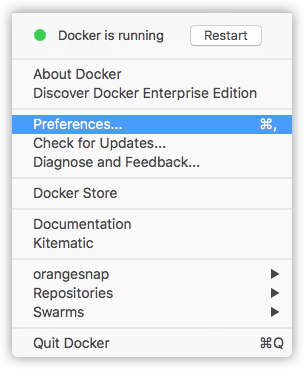
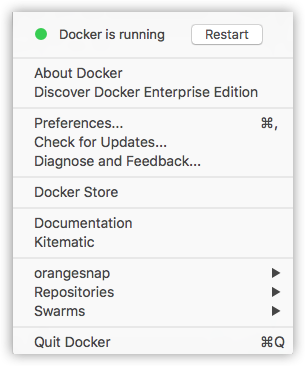
changed dates for release notes
relnotes dates, installer checksums, stable/beta updates

added an extra note re: VirtualBox

updated image for d4mac preference menu

diff --git a/docker-for-mac/install.md b/docker-for-mac/install.md
@@ -4,9 +4,10 @@ keywords: mac, beta, alpha, install, download
 title: Install Docker for Mac
 ---
 
-The Docker for Mac install package includes everything you need to run Docker on
-a Mac. This topic describes pre-install considerations, and how to download and
-install Docker for Mac.
+Docker for Mac is a [Docker Community Edition (CE)](https://www.docker.com/community-edition) app. The Docker for Mac
+install package includes everything you need to run Docker on a Mac. This topic
+describes pre-install considerations, and how to download and install Docker for
+Mac.<br><br>
 
 > **Already have Docker for Mac?** If you already have
 Docker for Mac installed, and are ready to get started, skip to
@@ -18,8 +19,21 @@ the command line, preferences, and tools.
 ## Download Docker for Mac
 
 If you have not already done so, please install Docker for Mac. You can download
-installers from the Stable or beta channel. For more about Stable and Edge
-channels, see the [FAQs](/docker-for-mac/faqs.md#stable-and-edge-channels).
+installers from the Stable or beta channel.
+
+Both Stable and Edge installers come with <a
+href="https://github.com/docker/docker/blob/master/experimental/README.md">
+experimental features in Docker Engine</a> enabled by default and configurable
+on [Docker Daemon preferences](index.md#daemon-experimental-mode) for
+experimental mode. We recommend that you disable experimental features for
+apps in production.
+
+On both channels, we welcome your <a
+href="troubleshoot/#diagnose-problems-send-feedback-and-create-github-issues">feedback</a>)
+to help us as the apps evolve.
+
+For more about Stable and Edge channels, see the
+[FAQs](/docker-for-mac/faqs.md#stable-and-edge-channels).
 
 <table style="width:100%">
   <tr>
@@ -27,45 +41,39 @@ channels, see the [FAQs](/docker-for-mac/faqs.md#stable-and-edge-channels).
     <th style="font-size: x-large; font-family: arial">Edge channel</th>
   </tr>
   <tr valign="top">
-    <td width="50%">This installer is fully baked and tested, and comes
-    with the latest GA version of Docker Engine along with <a
-    href="https://github.com/docker/docker/blob/master/experimental/README.md"> experimental features in Docker Engine</a>, which are enabled by
-    default and configurable on <a href="index#daemon-experimental-mode">Docker Daemon preferences for experimental mode</a>. <br><br>This is the
-    best channel to use if you want a reliable platform to work with.
-    (Be sure to disable experimental features for apps in production.) <br><br>These releases follow a version schedule with a longer lead
-    time than the Edge releases, synched with Docker Engine releases and
-    hotfixes.<br><br>On the Stable channel, you can select whether to send usage
-    statistics and other data.
+    <td width="50%">This installer is fully baked and tested. This is the
+    best channel to use if you want a reliable platform to work with. These releases follow the Docker Engine stable releases.<br><br>
+   On this channel, you can select whether to send usage
+   statistics and other data. <br><br>Stable builds are released once per quarter.
     </td>
     <td width="50%">This installer provides the latest Edge release of
-    Docker for Mac, offers cutting edge features along with
-    <a href="https://github.com/docker/docker/blob/master/experimental/README.md"> experimental features in Docker Engine</a>, which are enabled by
-    default and configurable on <a href="index#daemon-experimental-mode">Docker Daemon preferences for experimental mode</a>. <br><br>This is the
-    best channel to use if you want to experiment with features under development, and can weather some instability and bugs. This channel
-    is a continuation of the Edge program, where you can provide feedback
-    as the apps evolve. Releases are typically more frequent than for
-    Stable, often one or more per month. <br><br>We collect all usage
-    data on Edge releases across the board.</td>
+    Docker for Mac and Engine, and typically offers new features in development. Use this channel if you want to get experimental features faster, and can weather some instability and bugs. We collect all usage data on Edge releases across the board. <br><br>Edge builds are released once per month.
+    </td>
   </tr>
   <tr valign="top">
   <td width="50%">
-  <a class="button outline-btn" href="https://download.docker.com/mac/stable/Docker.dmg">Get Docker for Mac (Stable)</a><br><a href="https://download.docker.com/mac/stable/Docker.dmg.sha256sum"><font color="#BDBDBD" size="-1">Checksum: Docker.dmg SHA256</font></a>
+  <a class="button outline-btn" href="https://download.docker.com/mac/stable/Docker.dmg">Get Docker for Mac (Stable)</a>
   </td>
   <td width="50%">
   <a class="button outline-btn" href="https://download.docker.com/mac/edge/Docker.dmg">Get Docker for Mac (Edge)</a>
   </td>
   </tr>
-
+  <tr valign="top">
+  <td width="50%">
+  <a href="https://download.docker.com/mac/stable/Docker.dmg.sha256sum"><font color="#BDBDBD" size="-1">Checksum: Docker.dmg SHA256</font></a>
+  </td>
+  <td width="50%">
+  <a href="https://download.docker.com/mac/edge/Docker.dmg.sha256sum"><font color="#BDBDBD" size="-1">Checksum: Docker.dmg SHA256</font></a>
+  </td>
+  </tr>
 </table>
 
->**Important Notes**:
->
-> - Docker for Mac requires OS X El Capitan 10.11 or newer macOS release running on a 2010 or
-   newer Mac, with Intel's  hardware support for MMU virtualization. The app will run on 10.10.3 Yosemite, but with limited support. Please see
-   [What to know before you install](#what-to-know-before-you-install)
-   for a full explanation and list of prerequisites.
->
-> - You can switch between Edge and Stable versions, but you must have only one
+* Docker for Mac requires OS X El Capitan 10.11 or newer macOS release running on a 2010 or newer Mac, with Intel's  hardware support for MMU virtualization.
+The app will run on 10.10.3 Yosemite, but with limited support. Please see [What
+to know before you install](#what-to-know-before-you-install) for a full
+explanation and list of prerequisites.
+
+* You can switch between Edge and Stable versions, but you must have only one
    app installed at a time. Also, you will need to save images and export
    containers you want to keep before uninstalling the current version before
    installing another. For more about this, see the
@@ -109,7 +117,7 @@ channels, see the [FAQs](/docker-for-mac/faqs.md#stable-and-edge-channels).
   - At least 4GB of RAM
   <p />
   - VirtualBox prior to version 4.3.30 must NOT be installed (it is incompatible
-    with Docker for Mac)
+    with Docker for Mac). If you have a newer version of VirtualBox installed, it's fine, and it might come in handy later.
 
   > **Note**: If your system does not satisfy these requirements, you can
   > install [Docker Toolbox](/toolbox/overview.md), which uses Oracle VirtualBox

diff --git a/docker-for-windows/install.md b/docker-for-windows/install.md
@@ -4,9 +4,11 @@ keywords: windows, beta, edge, alpha, install, download
 title: Install Docker for Windows
 ---
 
-The Docker for Windows install package includes everything you need to run
-Docker on a Windows system. This topic describes pre-install considerations, and
-how to download and install Docker for Windows.
+Docker for Windows is a [Docker Community Edition
+(CE)](https://www.docker.com/community-edition) app. The Docker for Windows
+install package includes everything you need to run Docker on a Windows system.
+This topic describes pre-install considerations, and how to download and install
+Docker for Windows.<br><br>
 
 > **Already have Docker for Windows?** If you already have Docker for
 Windows installed, and are ready to get started, skip to
@@ -19,8 +21,20 @@ versions here](release-notes.md).
 ## Download Docker for Windows
 
 If you have not already done so, please install Docker for Windows. You can
-download installers from the Stable or Edge channel.  For more about Stable and
-Edge channels, see the
+download installers from the **Stable** or **Edge** channel.
+
+Both Stable and Edge installers come with <a
+href="https://github.com/docker/docker/blob/master/experimental/README.md">
+experimental features in Docker Engine</a> enabled by default and configurable
+on [Docker Daemon preferences](index.md#daemon-experimental-mode) for
+experimental mode. We recommend that you disable experimental features for
+apps in production.
+
+On both channels, we welcome your
+[feedback](index.md#giving-feedback-and-getting-help) to help us as the apps
+evolve.
+
+For more about Stable and Edge channels, see the
 [FAQs](/docker-for-windows/faqs.md#questions-about-stable-and-edge-channels).
 
 <table style="width:100%">
@@ -29,52 +43,39 @@ Edge channels, see the
     <th style="font-size: x-large; font-family: arial">Edge channel</th>
   </tr>
   <tr valign="top">
-    <td width="50%">This installer is fully baked and tested, and comes
-    with the latest GA version of Docker Engine along with
-    <a href="https://github.com/docker/docker/blob/master/experimental/README.md"> experimental features in Docker Engine</a>, which are enabled
-    by default and configurable on
-    <a href="index#daemon-experimental-mode">Docker Daemon settings for
-    experimental mode</a>. <br><br>This is the best channel to use if
-    you want a reliable platform to work with. (Be sure to disable
-    experimental features for apps in production.) <br><br>These releases follow a version schedule with a longer lead time than the Edge releases,
-    synched with Docker Engine releases and hotfixes.<br><br>On the
-    Stable channel, you can select whether to send usage statistics
-    and other data.
+    <td width="50%">This installer is fully baked and tested. This is the
+    best channel to use if you want a reliable platform to work with. These releases follow the Docker Engine stable releases.<br><br>
+   On this channel, you can select whether to send usage
+   statistics and other data. <br><br>Stable builds are released once per quarter.
     </td>
     <td width="50%">This installer provides the latest Edge release of
-    Docker for Windows, offers cutting edge features along with <a href="https://github.com/docker/docker/blob/master/experimental/README.md"> experimental features in Docker Engine</a>, which are enabled
-    by default and configurable on <a href="index#daemon-experimental-mode">
-    Docker Daemon settings for experimental mode</a>. <br><br>This is
-    the best channel to use if you want to experiment with features
-    under development, and can weather some instability and bugs. This
-    channel is a continuation of the Edge program, where you can
-    provide feedback as the apps evolve. Releases are typically more
-    frequent than for Stable, often one or more per month. <br><br>
-    We collect all usage data on Edge releases across the board.</td>
+    Docker for Mac and Engine, and typically offers new features in development. Use this channel if you want to get experimental features faster, and can weather some instability and bugs. We collect all usage data on Edge releases across the board. <br><br>Edge builds are released once per month.
+    </td>
   </tr>
   <tr valign="top">
   <td width="50%">
-  <a class="button outline-btn" href="https://download.docker.com/win/stable/InstallDocker.msi">Get Docker for Windows (Stable)</a><br><a href="https://download.docker.com/win/stable/InstallDocker.msi.sha256sum"><font color="#BDBDBD" size="-1">Checksum: InstallDocker.msi SHA256</font></a>
+  <a class="button outline-btn" href="https://download.docker.com/win/stable/InstallDocker.msi">Get Docker for Windows (Stable)</a>
   </td>
   <td width="50%">
   <a class="button outline-btn" href="https://download.docker.com/win/edge/InstallDocker.msi">Get Docker for Windows (Edge)</a>
   </td>
   </tr>
+  <tr valign="top">
+  <td width="50%"><a href="https://download.docker.com/win/stable/InstallDocker.msi.sha256sum"><font color="#BDBDBD" size="-1">Checksum: InstallDocker.msi SHA256</font></a>
+  </td>
+  <td width="50%"><a href="https://download.docker.com/win/edge/InstallDocker.msi.sha256sum"><font color="#BDBDBD" size="-1">Checksum: InstallDocker.msi SHA256</font></a>
+  </td>
+  </tr>
 </table>
 
->**Important Notes:**
->
-> - Docker for Windows requires 64bit Windows 10 Pro, Enterprise and Education
->   (1511 November update, Build 10586 or later) and Microsoft Hyper-V. Please
->   see
->   [What to know before you install](/docker-for-windows/#what-to-know-before-you-install)
->   for a full list of prerequisites.
->
-> - You can switch between Edge and Stable versions, but you must have only one
->   app installed at a time. Also, you will need to save images and export
->   containers you want to keep before uninstalling the current version before
->   installing another. For more about this, see the
->   [FAQs about Stable and Edge channels](/docker-for-windows/faqs.md#questions-about-stable-and-edge-channels).
+* Docker for Windows requires 64bit Windows 10 Pro and Microsoft Hyper-V. Please see [What to know before you install](/docker-for-windows/#what-to-know-before-you-install) for a full list
+of prerequisites.
+
+* You can switch between Edge and Stable versions, but you must have only one
+   app installed at a time. Also, you will need to save images and export
+   containers you want to keep before uninstalling the current version before
+   installing another. For more about this, see the [FAQs about Stable and Edge
+   channels](/docker-for-windows/faqs.md#questions-about-stable-and-edge-channels).
 
 ##  What to know before you install
 

diff --git a/docker-for-windows/index.md b/docker-for-windows/index.md
@@ -603,21 +603,6 @@ because they do not apply to Windows containers:
   * [Network](#network)
   * [Advanced (CPU and Memory configuration)](#advanced)
 
-### Giving feedback and getting help
-
-To get help from the community, review current user topics, join or start a
-discussion, log on to our [Docker for Windows
-forum](https://forums.docker.com/c/docker-for-windows).
-
-To report bugs or problems, log on to [Docker for Windows issues on
-GitHub](https://github.com/docker/for-win/issues), where you can review
-community reported issues, and file new ones. As a part of reporting issues on
-GitHub, we can help you troubleshoot the log data. See the
-[Diagnose and Feedback](#diagnose-and-feedback) topic below.
-
-To give feedback on the documentation or update it yourself, use the Feedback
-options at the bottom of each docs page.
-
 ### Docker Store
 
 Choose **Docker Store** from the Docker for Windows menu
@@ -649,9 +634,29 @@ Check out these [Docker Cloud topics](/docker-cloud/index.md) to learn more:
 * [Builds and Images](/docker-cloud/builds/index.md)
 * [Swarms in Docker Cloud](/docker-cloud/cloud-swarm/index.md)
 
+### Giving feedback and getting help
+
+To get help from the community, review current user topics, join or start a
+discussion, log on to our [Docker for Windows
+forum](https://forums.docker.com/c/docker-for-windows).
+
+To report bugs or problems, log on to [Docker for Windows issues on
+GitHub](https://github.com/docker/for-win/issues), where you can review
+community reported issues, and file new ones. As a part of reporting issues on
+GitHub, we can help you troubleshoot the log data. See the
+[Diagnose and Feedback](#diagnose-and-feedback) topic below.
+
+To give feedback on the documentation or update it yourself, use the Feedback
+options at the bottom of each docs page.
+
 ### Diagnose and Feedback
 
-If you encounter problems for which you do not find solutions in this documentation, searching [Docker for Windows issues on GitHub](https://github.com/docker/for-win/issues) already filed by other users, or on the [Docker for Windows forum](https://forums.docker.com/c/docker-for-windows), we can help you troubleshoot the log data.
+If you encounter problems for which you do not find solutions in this
+documentation, searching [Docker for Windows issues on
+GitHub](https://github.com/docker/for-win/issues) already filed by other users,
+or on the [Docker for Windows
+forum](https://forums.docker.com/c/docker-for-windows), we can help you
+troubleshoot the log data.
 
 Select **Upload a diagnostic**.
 

diff --git a/docker-for-windows/release-notes.md b/docker-for-windows/release-notes.md
@@ -303,7 +303,7 @@ We did not distribute a 1.12.4 stable release
 
 ## Edge Release Notes
 
-### Docker Community Edition 17.03.1 Release Notes (2017-03-22 17.03.1-ce-win3)
+### Docker Community Edition 17.03.1 Release Notes (2017-03-28 17.03.1-ce-win3)
 
 **Upgrades**
 

diff --git a/docker-for-mac/release-notes.md b/docker-for-mac/release-notes.md
@@ -335,7 +335,7 @@ events or unexpected unmounts.
 
 ## Edge Release Notes
 
-### Docker Community Edition 17.03.1-ce-mac3, 2017-03-22 (edge)
+### Docker Community Edition 17.03.1-ce-mac3, 2017-03-28 (edge)
 
 **Upgrades**
 
